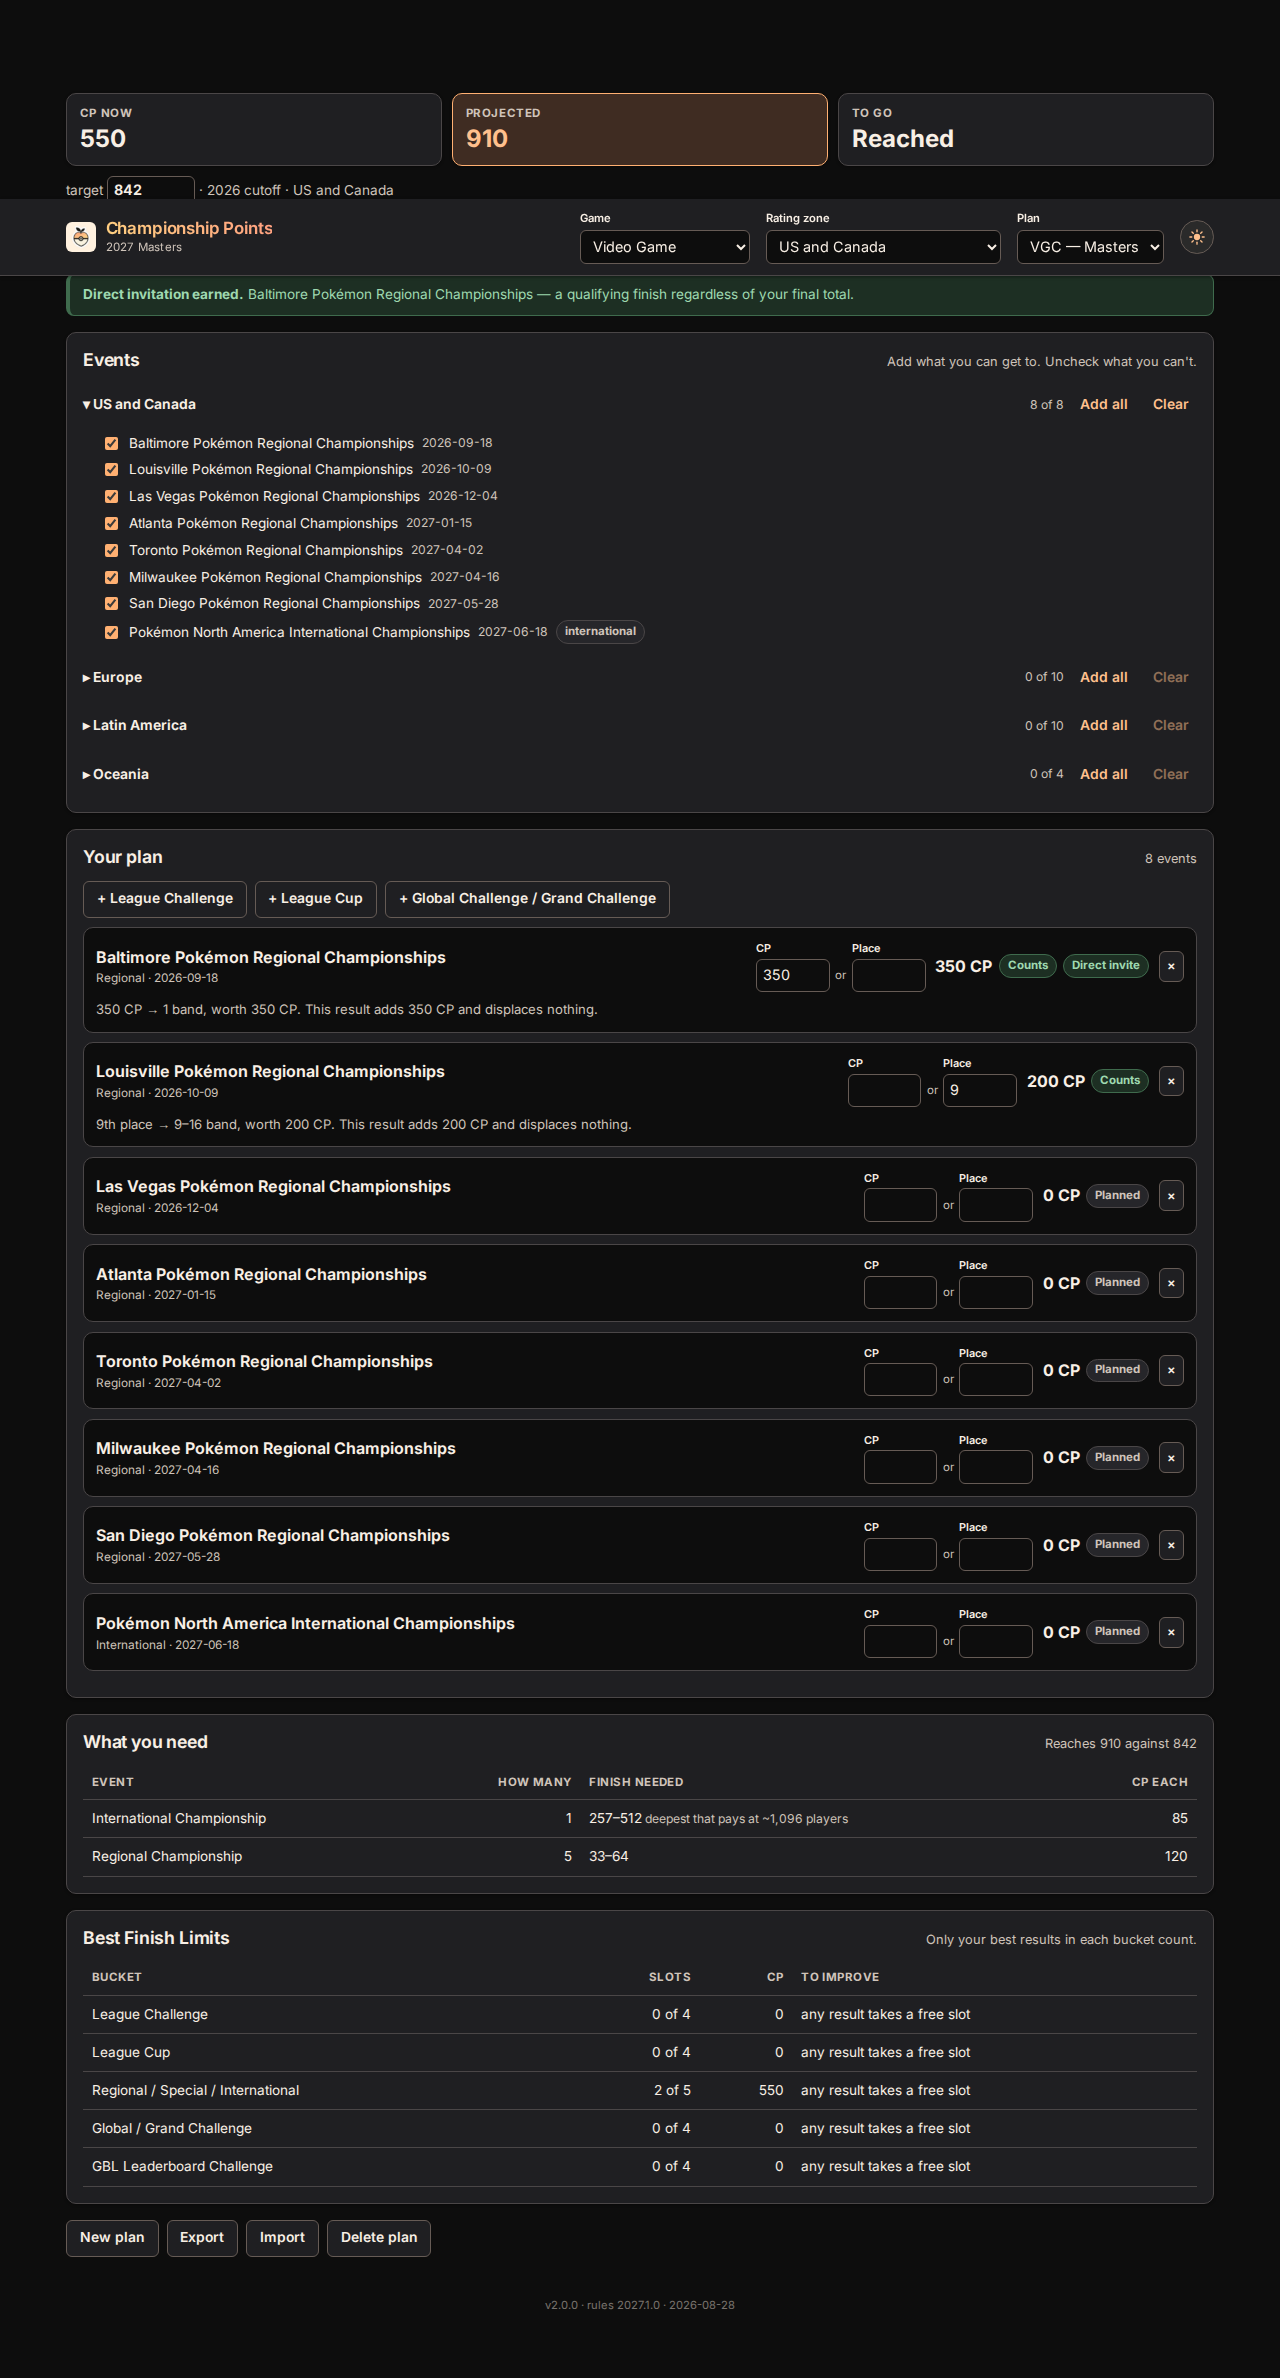
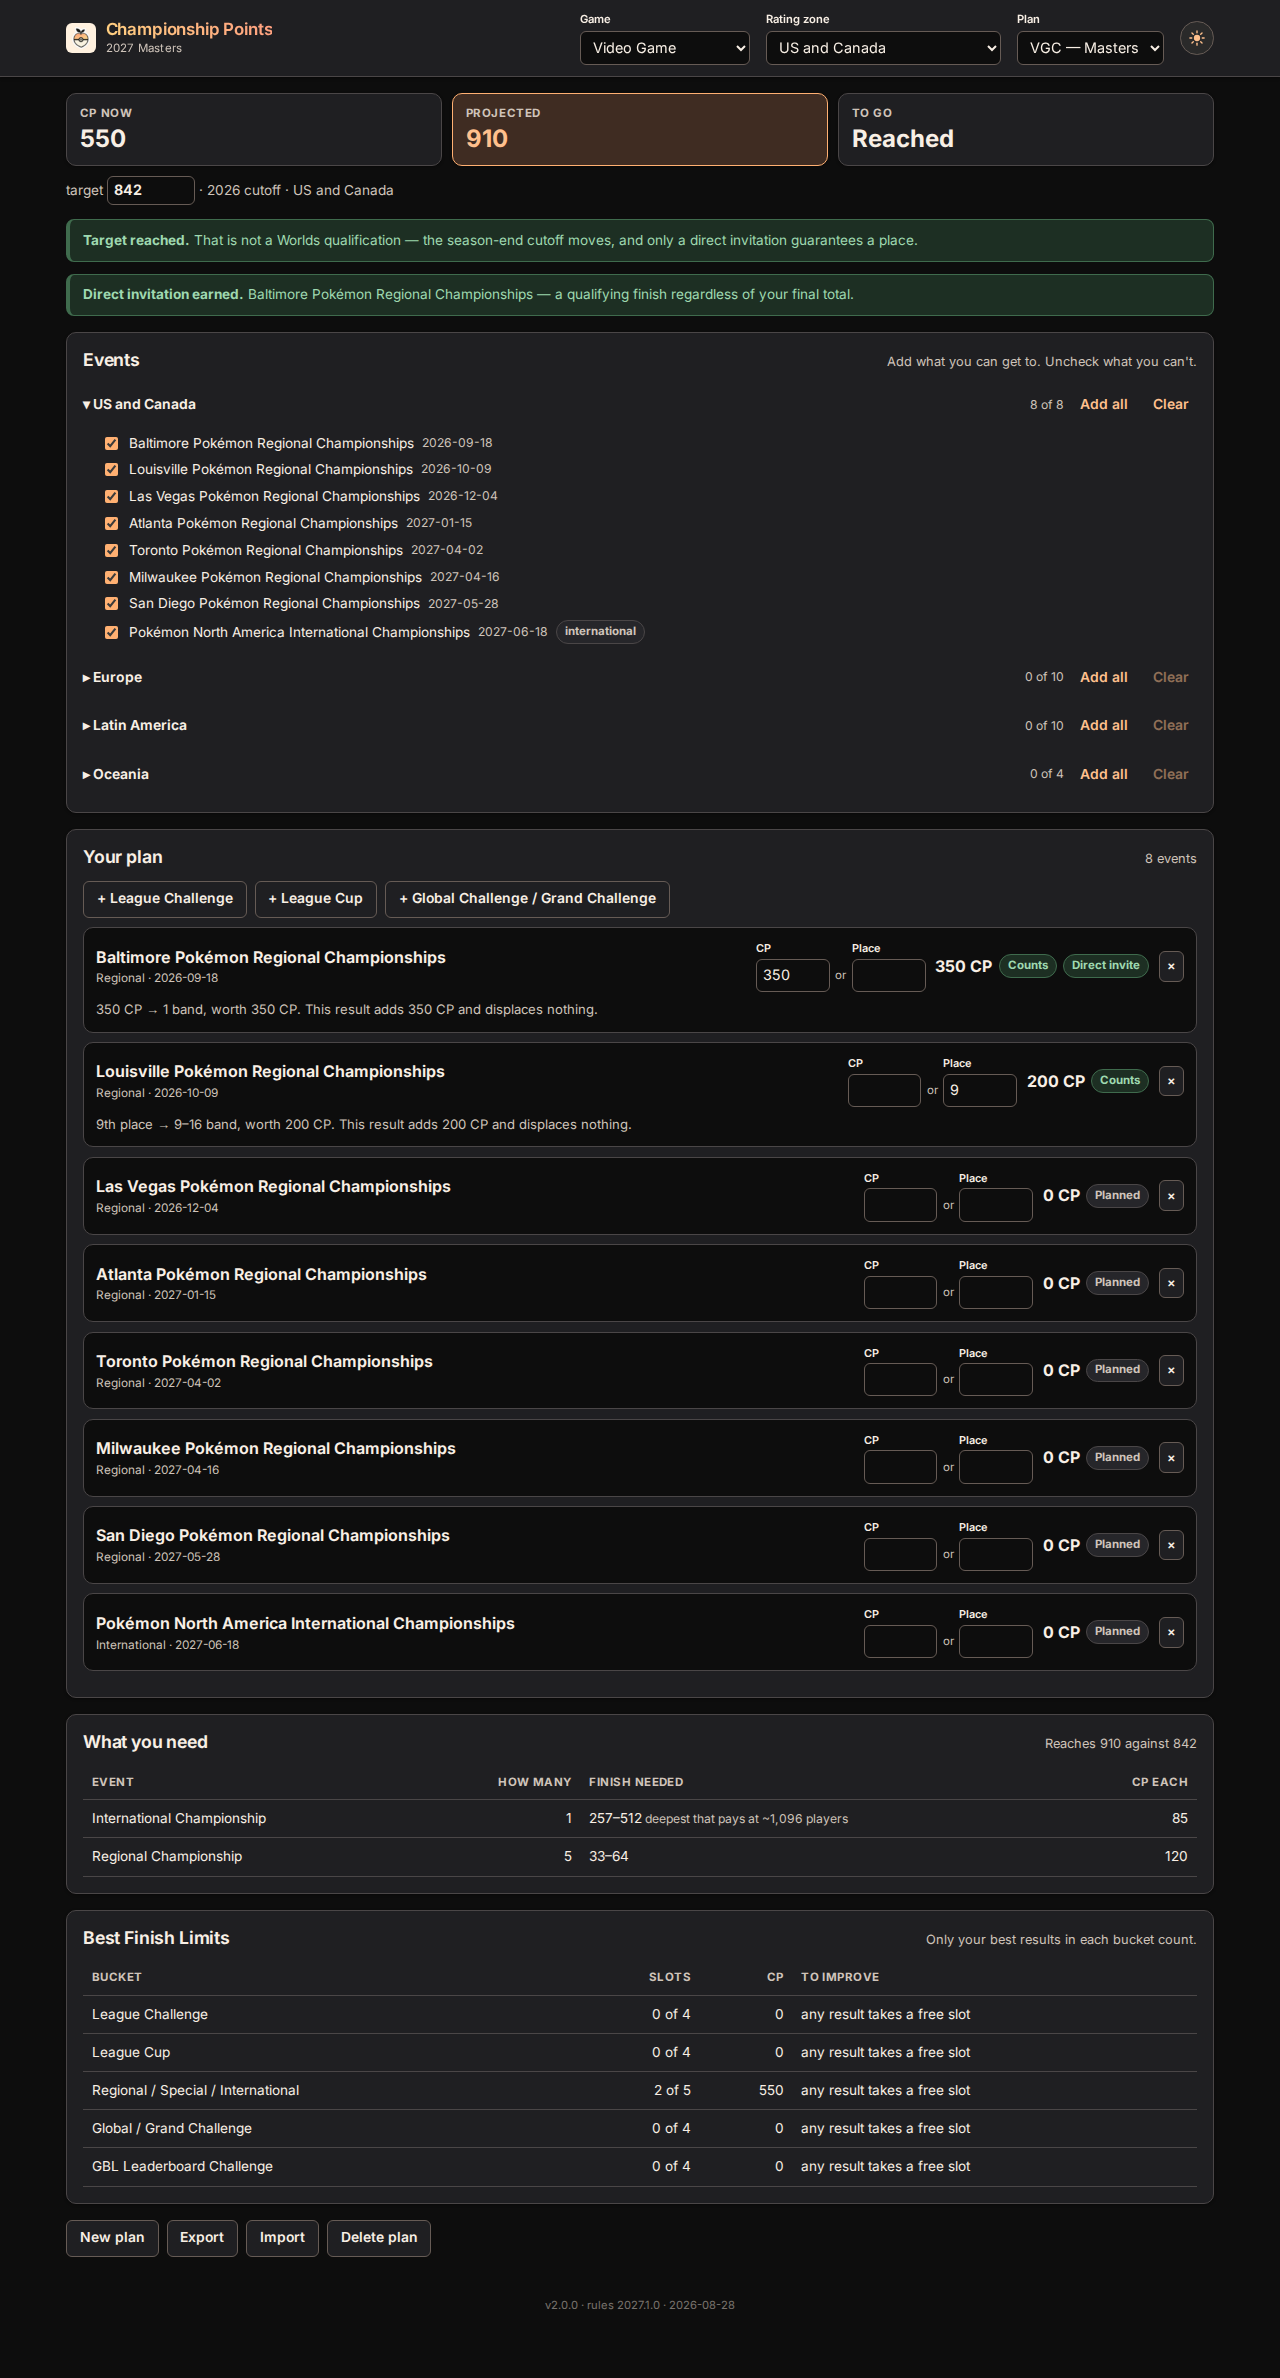
feat: refresh the event catalog on a schedule
The catalog fix shipped earlier corrected the data by hand but left the
framework missing: refresh-catalog.mjs was never run automatically, so the
list of Regionals, Specials and Internationals would drift out of date again
as the season is published.

Adds refresh-events.yml, following the pattern pokemon-majors-map uses --
daily cron, continue-on-error, file or update an issue when the scrape fails
so a bad run never publishes, commit only when the schedule actually changed,
and trigger the deploy explicitly afterwards.

That last step also fixes a latent bug in refresh-leaderboard.yml, which
committed the refreshed boundary but never kicked a deploy. Commits made with
GITHUB_TOKEN do not trigger other workflows, so that data has been landing in
git and never reaching the live site.

Adds two guards to the scraper, because the failure it shipped was silent --
the catalog looked full, it was just full of last season's events. It now
refuses to publish an empty catalog, and refuses to publish any event outside
the season window of September to the end of June.

Claude-Session: https://claude.ai/code/session_01BuiWBKs6x4cSkva5zzHC1R

diff --git a/README.md b/README.md
@@ -151,6 +151,7 @@ npm run dev        # http://localhost:5173/
 | `npm run build` | typecheck, then production build to `dist/` |
 | `npm run refresh:leaderboard` | re-read the live boundary from the official API |
 | `npm run refresh:attendance` | rebuild the attendance baselines from Limitless and Liquipedia |
+| `npm run refresh:catalog` | rebuild the season's Regional / Special / International list |
 
 The end-to-end smoke test drives the built app in a real browser:
 
@@ -197,6 +198,23 @@ possible, and it is why the rules live in JSON rather than in components.
 The site is served from `points.georgiaplayevents.com` at the domain root — `public/CNAME`
 holds the custom domain, and `vite.config.ts` therefore builds with `base: '/'`. The DNS
 record is a `CNAME` from `points` to `pizzacatz.github.io`.
+
+Two scheduled workflows keep the data current, both following the framework
+[pokemon-majors-map](https://github.com/pizzacatz/pokemon-majors-map) uses: scrape
+on a schedule, never publish a failed scrape, commit only real changes, and kick
+the deploy explicitly afterwards — commits made with `GITHUB_TOKEN` do not trigger
+other workflows, so without that last step refreshed data sits in git and never
+reaches the site.
+
+| Workflow | Refreshes |
+|---|---|
+| `refresh-events.yml` | the season's Regionals, Specials and Internationals |
+| `refresh-leaderboard.yml` | the live Worlds-invitation boundary |
+
+`refresh-catalog.mjs` refuses to publish a catalog that is empty, or that contains
+an event outside the season window — September to the end of June. That guard
+exists because the first version of this failed silently: the list looked full, it
+was just full of last season's finished events.
 
 The site is fully static. A scheduled GitHub Action reads the official leaderboard
 once a day and commits a snapshot, so there is no runtime backend and no user account
